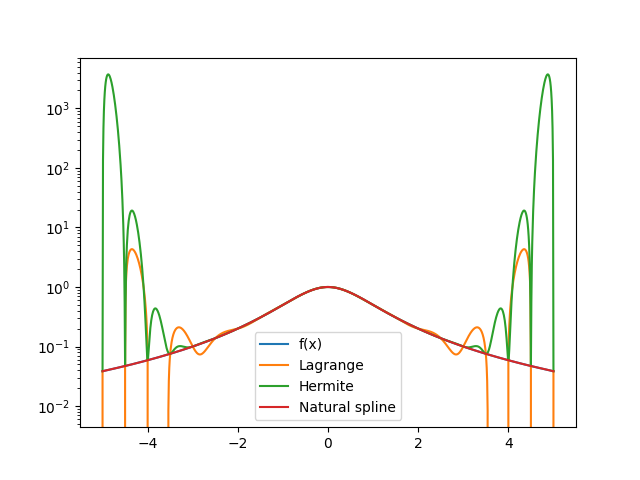
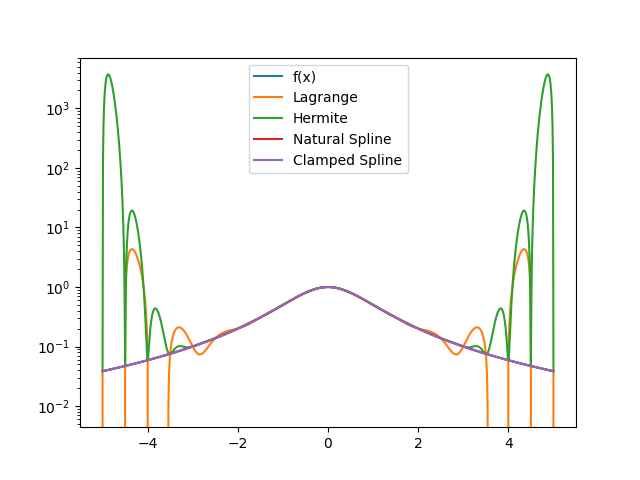
more

diff --git a/Homework/homework8/hermite_int.py b/Homework/homework8/hermite_int.py
@@ -1,4 +1,3 @@
-
 import matplotlib.pyplot as plt
 import numpy as np
 from numpy.linalg import inv
@@ -33,12 +32,16 @@ def driver(N,verb1 =True, verb2 = True):
     xeval = np.linspace(a,b,Neval+1)
     (M,C,D) = create_natural_spline(yint,xint,N)
     (M1,C1,D1) = create_natural_spline(yint1,xint1,N)
+    (Ma,Ca,Da) = create_clamped_spline(yint,xint,N)
+    (Ma1,Ca1,Da1) = create_clamped_spline(yint1,xint1,N)
     yevalL = np.zeros(Neval+1)
     yevalH = np.zeros(Neval+1)
     yevalC = eval_cubic_spline(xeval,Neval,xint,N,M,C,D)
+    yevalD = eval_cubic_spline(xeval,Neval,xint,N,Ma,Ca,Da)
     yevalL1 = np.zeros(Neval+1)
     yevalH1 = np.zeros(Neval+1)
     yevalC1 = eval_cubic_spline(xeval,Neval,xint1,N,M1,C1,D1)
+    yevalD1 = eval_cubic_spline(xeval,Neval,xint1,N,Ma1,Ca1,Da1)
     for kk in range(Neval+1):
       yevalL[kk] = eval_lagrange(xeval[kk],xint,yint,N)
       yevalH[kk] = eval_hermite(xeval[kk],xint,yint,ypint,N)
@@ -55,7 +58,8 @@ def driver(N,verb1 =True, verb2 = True):
         plt.plot(xeval,fex,label = "f(x)")
         plt.plot(xeval,yevalL,label='Lagrange') 
         plt.plot(xeval,yevalH,label='Hermite')
-        plt.plot(xeval,yevalC,label='Natural spline') 
+        plt.plot(xeval,yevalC,label='Natural Spline') 
+        plt.plot(xeval,yevalD,label='Clamped Spline') 
         plt.legend()
         plt.semilogy()
         plt.savefig("problem1.{N}.png".format(N=N))
@@ -64,7 +68,8 @@ def driver(N,verb1 =True, verb2 = True):
         plt.plot(xeval,fex,label = "f(x)")
         plt.plot(xeval,yevalL1,label='Lagrange') 
         plt.plot(xeval,yevalH1,label='Hermite')
-        plt.plot(xeval,yevalC1,label='Natural spline') 
+        plt.plot(xeval,yevalC1,label='Natural Spline') 
+        plt.plot(xeval,yevalD1,label='Clamped Spline')  #THIS BROKE
         plt.legend()
         plt.semilogy()
         plt.savefig("problem2.{N}.png".format(N=N))
@@ -234,10 +239,10 @@ def  eval_cubic_spline(xeval,Neval,xint,Nint,M,C,D):
 
     return(yeval)
            
-driver(5,True,True)  
-driver(10,False)
-driver(15,False)
-driver(20,False)             
+driver(5)  
+driver(10)
+driver(15)
+driver(20)             
 
    
    
